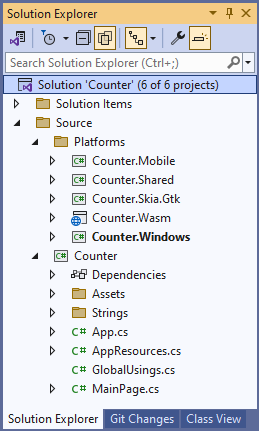
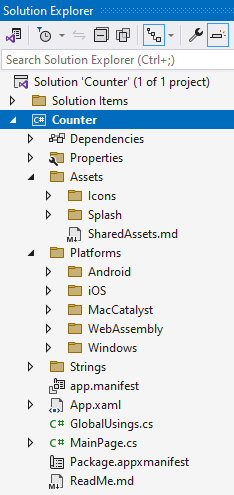
docs: Update doc to fit uno 5.2 structure.
(cherry picked from commit fc8a24325674448727d3816f36b8bcda35280cd6)

diff --git a/doc/articles/getting-started/counterapp/get-started-counter-csharp-mvux.md b/doc/articles/getting-started/counterapp/get-started-counter-csharp-mvux.md
@@ -34,7 +34,7 @@ To complete this tutorial, you don't need any prior knowledge of the Uno Platfor
 
 At this point you'll enter the **Uno Platform Template Wizard**, giving you options to customize the generated application. For this tutorial, we're only going to configure the markup language and the presentation framework.
 
-- Select **Blank** and click **Customize**
+- Select **Blank** in **Presets** selection
 
 - Select the **Presentation** tab and choose **MVUX**
 
@@ -44,7 +44,7 @@ Before completing the wizard, take a look through each of the sections and see w
 
 - Click **Create** to complete the wizard
 
-The template will create a new solution with a number of projects. The main project is called **Counter** which contains the application code. The other projects are platform-specific heads that contain the platform-specific code required to run the application on each platform.
+The template will create a solution with a single cross-platform project, named `Counter`, ready to run.
 
 ## [Command Line](#tab/cli)
 
@@ -153,7 +153,7 @@ Now that we have the **`BindableMainModel`** class, we can update the **`MainPag
                                 .HorizontalAlignment(HorizontalAlignment.Center)
                                 .Width(150)
                                 .Height(150)
-                                .Source("ms-appx:///Counter/Assets/logo.png"),
+                                .Source("ms-appx:///Assets/logo.png"),
                             new TextBox()
                                 .Margin(12)
                                 .HorizontalAlignment(HorizontalAlignment.Center)

diff --git a/doc/articles/getting-started/counterapp/includes/include-mainpage-layout.md b/doc/articles/getting-started/counterapp/includes/include-mainpage-layout.md
@@ -4,7 +4,7 @@ The page contains a **`StackPanel`**, which will lay out controls in a vertical 
 
 ## Add a Control
 
-We're going to replace the existing **`TextBlock`** with an **`Image`** but before we can do this, we need to add the image file to the application. Download this [SVG image](../Assets/logo.svg) and add it to the **Assets** folder inside the **Counter** project. At this point, you should rebuild the application in order for the image to be included in the application package.
+We're going to replace the existing **`TextBlock`** with an **`Image`** but before we can do this, we need to add the image file to the application. Download this [SVG image](../Assets/logo.svg) and add it to the **Assets** folder. At this point, you should rebuild the application in order for the image to be included in the application package.
 
 > [!NOTE]
 > If you're working in Visual Studio, select the newly added **logo.svg** file in the **Solution Explorer**, open the **Properties** tool window, and make sure the **Build Action** property is set to **`UnoImage`**. For other IDEs, no further action is required as the template automatically sets the **Build Action** to **`UnoImage`** for all files in the **Assets** folder.

diff --git a/doc/articles/getting-started/counterapp/get-started-counter-csharp-mvvm.md b/doc/articles/getting-started/counterapp/get-started-counter-csharp-mvvm.md
@@ -34,7 +34,7 @@ To complete this tutorial you don't need any prior knowledge of the Uno Platform
 
 At this point you'll enter the **Uno Platform Template Wizard**, giving you options to customize the generated application. For this tutorial, we're only going to configure the markup language and the presentation framework.
 
-- Select **Blank** and click **Customize**
+- Select **Blank** in **Presets** selection
 
 - Select the **Presentation** tab and choose **MVVM**
 
@@ -44,7 +44,7 @@ Before completing the wizard, take a look through each of the sections and see w
 
 - Click **Create** to complete the wizard
 
-The template will create a new solution with a number of projects. The main project is called **Counter** which contains the application code. The other projects are platform-specific heads that contain the platform-specific code required to run the application on each platform.
+The template will create a solution with a simple cross-platform project, named `Counter`, ready to run.
 
 ## [Command Line](#tab/cli)
 

diff --git a/doc/articles/getting-started/counterapp/get-started-counter-xaml-mvux.md b/doc/articles/getting-started/counterapp/get-started-counter-xaml-mvux.md
@@ -34,7 +34,7 @@ To complete this tutorial you don't need any prior knowledge of the Uno Platform
 
 At this point you'll enter the **Uno Platform Template Wizard**, giving you options to customize the generated application. For this tutorial, we're only going to configure the markup language and the presentation framework.
 
-- Select **Blank** and click **Customize**
+- Select **Blank** in **Presets** selection
 
 - Select the **Presentation** tab and choose **MVUX**
 
@@ -44,7 +44,7 @@ Before completing the wizard, take a look through each of the sections and see w
 
 - Click **Create** to complete the wizard
 
-The template will create a new solution with a number of projects. The main project is called **Counter** which contains the application code. The other projects are platform-specific heads that contain the platform-specific code required to run the application on each platform.
+The template will create a solution with a single cross-platform project, named `Counter`, ready to run.
 
 ## [Command Line](#tab/cli)
 

diff --git a/doc/articles/getting-started/counterapp/get-started-counter-xaml-mvvm.md b/doc/articles/getting-started/counterapp/get-started-counter-xaml-mvvm.md
@@ -34,7 +34,7 @@ To complete this tutorial you don't need any prior knowledge of the Uno Platform
 
 At this point you'll enter the **Uno Platform Template Wizard**, giving you options to customize the generated application. For this tutorial, we're only going to configure the markup language and the presentation framework.
 
-- Select **Blank** and click **Customize**
+- Select **Blank** in **Presets** selection
 
 - Select the **Presentation** tab and choose **MVVM**
 
@@ -44,7 +44,7 @@ Before completing the wizard, take a look through each of the sections and see w
 
 - Click **Create** to complete the wizard
 
-The template will create a new solution with a number of projects. The main project is called **Counter** which contains the application code. The other projects are platform-specific heads that contain the platform-specific code required to run the application on each platform.
+The template will create a solution with a single cross-platform project, named `Counter`, ready to run.
 
 ## [Command Line](#tab/cli)
 

diff --git a/doc/articles/getting-started/counterapp/includes/include-mainwindow.md b/doc/articles/getting-started/counterapp/includes/include-mainwindow.md
@@ -4,4 +4,4 @@ Before proceeding, you should select a target platform and run the application. 
 
 The majority of an Uno Platform application is defined in a project, in this case, named **Counter**. This project contains files that define the layout of the application and files that implement the application logic.
 
-The startup logic for the application is contained in the `App.xaml.cs` file in the **Counter** project. In the `OnLaunched` method, the `MainWindow` of the application is initialized with a `Frame`, used for navigation between pages, and the `MainPage` is set as the initial page.
+The startup logic for the application is contained in the `App.xaml.cs` file. In the `OnLaunched` method, the `MainWindow` of the application is initialized with a `Frame`, used for navigation between pages, and the `MainPage` is set as the initial page.

diff --git a/doc/articles/getting-started/counterapp/includes/include-mainpage-change-layout.md b/doc/articles/getting-started/counterapp/includes/include-mainpage-change-layout.md
@@ -1,4 +1,4 @@
-- The **`Width`** and **`Height`** have been set on the **`Image`** to ensure the image is displayed at the correct size. The **Source** property has been set to the path of the image file inside the **Counter** project.
+- The **`Width`** and **`Height`** have been set on the **`Image`** to ensure the image is displayed at the correct size. The **Source** property has been set to the path of the image file.
 
 Run the application to see the updated **`MainPage`**. You should see the image displayed in the center of the page. Keep the application running whilst completing the rest of this tutorial. Hot Reload is used to automatically update the running application as you make changes to the application. For more information on Hot Reload, see [Hot Reload](xref:Uno.Features.HotReload).
 

diff --git a/doc/articles/getting-started/counterapp/includes/include-solution.md b/doc/articles/getting-started/counterapp/includes/include-solution.md
@@ -1,1 +1,1 @@
-At this point, the newly created application can be opened in Visual Studio or your preferred IDE. The following image shows the **Counter** project that includes the files containing the layout and business logic for the application. It also contains a project for all your app files, such as code or the application icon, for instance.
+At this point, the newly created application can be opened in Visual Studio or your preferred IDE. The image below displays the `Counter` project, which includes files for the application's layout and business logic. Additionally, the project contains a `Platforms` folder for platform-specific files, a `Strings` folder for localization, and an `Assets` folder for images, icons, and other assets.

diff --git a/doc/articles/getting-started/counterapp/includes/include-mvvm.md b/doc/articles/getting-started/counterapp/includes/include-mvvm.md
@@ -4,7 +4,7 @@ So far all the elements we've added to the **MainPage** have had their content s
 
 As part of creating the application, we selected MVVM as the presentation framework. This added a reference to the [**MVVM Toolkit**](https://learn.microsoft.com/dotnet/communitytoolkit/mvvm/) package which provides a base class called `ObservableObject` which implements the `INotifyPropertyChanged` interface. This interface is used to notify the UI when a property has changed so that the UI can be updated.
 
-- Add a new class, `MainViewModel`, to the **Counter** project.
+- Add a new class named `MainViewModel`.
 - Update the **MainViewModel** class to be a `partial` class and inherit from **ObservableObject**.
 
     ```csharp

diff --git a/doc/articles/getting-started/counterapp/includes/include-elements-csharp.md b/doc/articles/getting-started/counterapp/includes/include-elements-csharp.md
@@ -13,7 +13,7 @@
         .HorizontalAlignment(HorizontalAlignment.Center)
         .Width(150)
         .Height(150)
-        .Source("ms-appx:///Counter/Assets/logo.png")
+        .Source("ms-appx:///Assets/logo.png"),
     ```
 
 - Add a **`TextBox`** to allow the user to enter the step size.
@@ -24,7 +24,7 @@
         .HorizontalAlignment(HorizontalAlignment.Center)
         .TextAlignment(Microsoft.UI.Xaml.TextAlignment.Center)
         .PlaceholderText("Step Size")
-        .Text("1")
+        .Text("1"),
     ```
 
 - Add a **`TextBlock`** to display the current counter value.

diff --git a/doc/articles/getting-started/counterapp/includes/include-mvux.md b/doc/articles/getting-started/counterapp/includes/include-mvux.md
@@ -4,7 +4,7 @@ So far, all the elements we've added to the **MainPage** have had their content 
 
 As part of creating the application, we selected MVUX as the presentation framework. This added a reference to [**MVUX**](https://aka.platform.uno/mvux) which is responsible for dealing with our Models and generating the ViewModels.
 
-- Add a new class, `MainModel`, to the **Counter** project.
+- Add a new class named `MainModel`.
 - Update the `MainModel` class to be a `partial record`.
 
     ```csharp

diff --git a/doc/articles/getting-started/counterapp/includes/include-image-csharp.md b/doc/articles/getting-started/counterapp/includes/include-image-csharp.md
@@ -1,9 +1,9 @@
-- Open the **MainPage.cs** file in the **Counter** project.
+- Open the **MainPage.cs** file.
 - Replace the **`TextBlock`** with the following **`Image`** element.
 
     ```csharp
     new Image()
         .Width(150)
         .Height(150)
-        .Source("ms-appx:///Counter/Assets/logo.png")
+        .Source("ms-appx:///Assets/logo.png")
     ```
